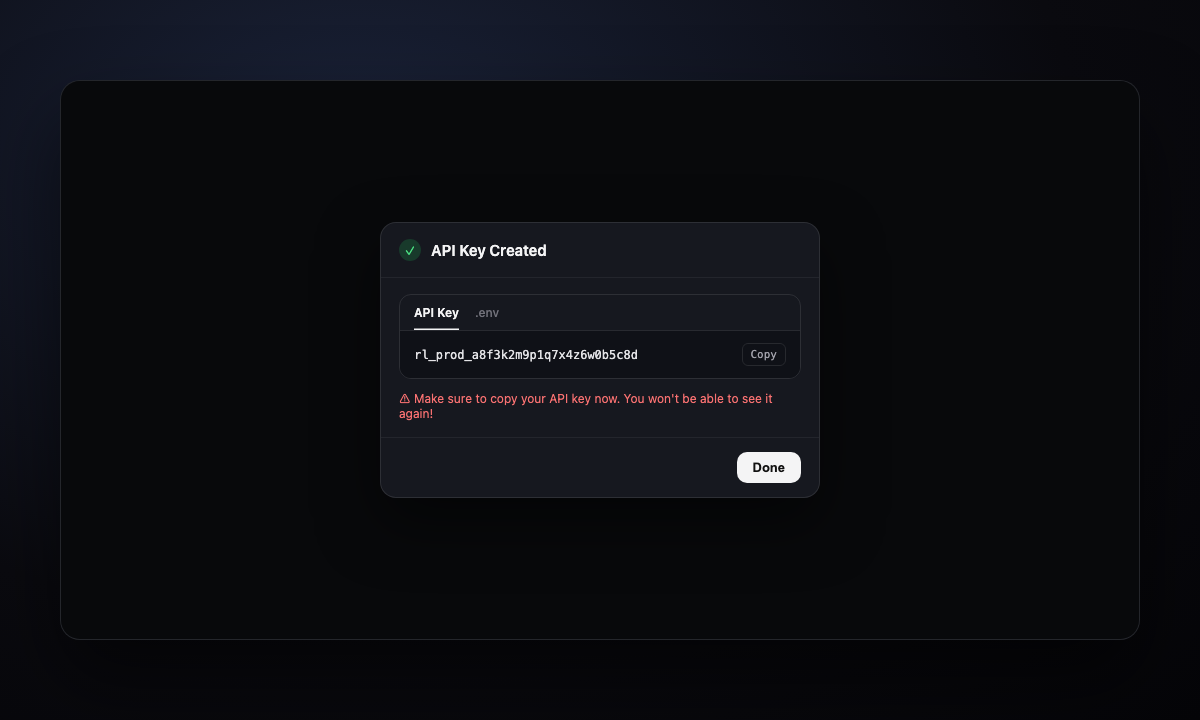
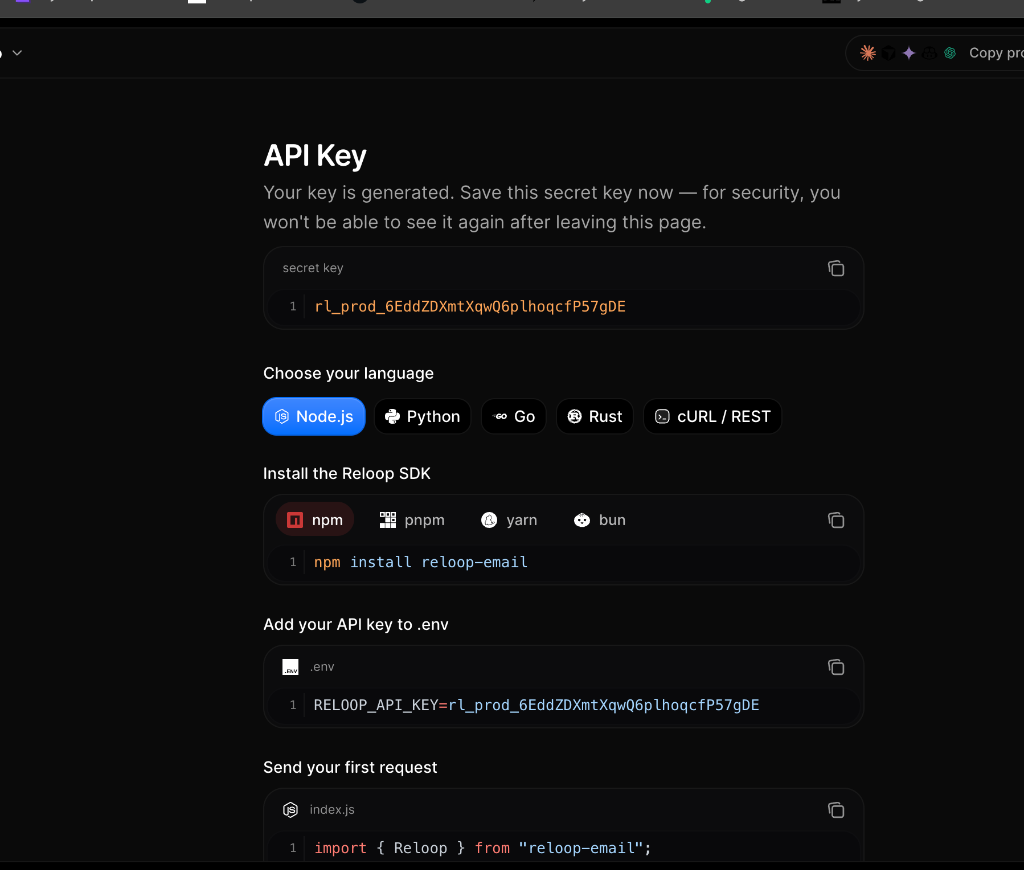
chore: update documentation watcher timestamp and refresh API key screenshots

diff --git a/apps/frontend/docs/src/lib/watcher-trigger.ts b/apps/frontend/docs/src/lib/watcher-trigger.ts
@@ -1,1 +1,1 @@
-export const timestamp = 1785170528879;
+export const timestamp = 1785171069731;
